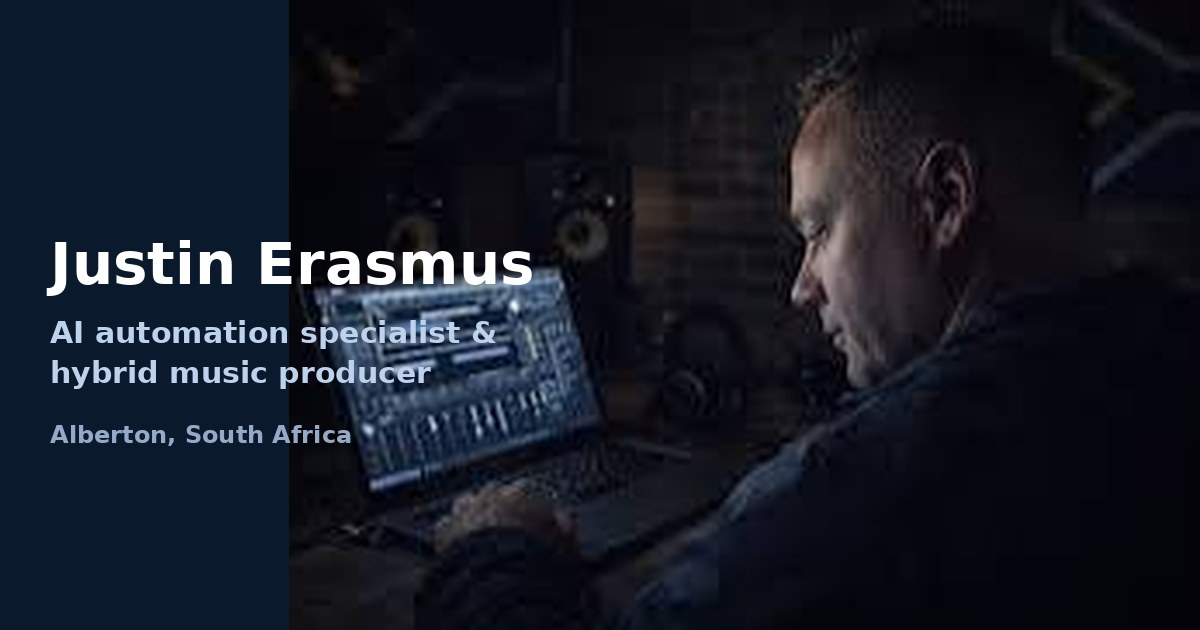
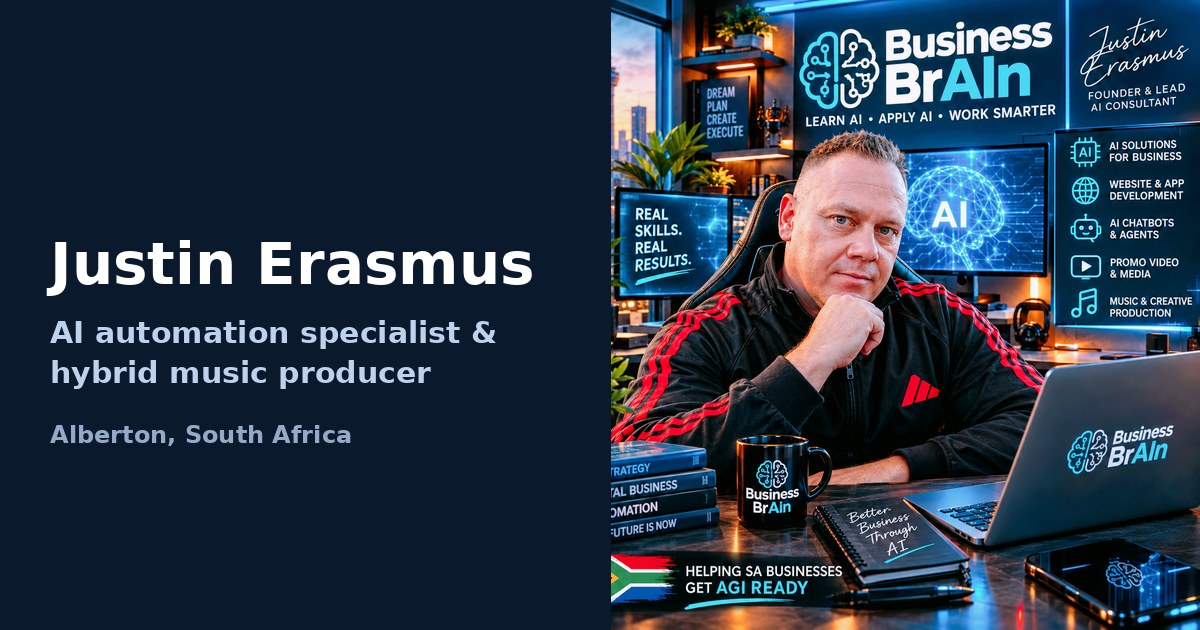
Add Business BrAIn photo: home hero, AI page, media kit; new OG image

diff --git a/media-kit/index.html b/media-kit/index.html
@@ -10,7 +10,7 @@
 <main id="main" class="wrap"><h1>Media Kit</h1><p class="meta">Biographies approved by Justin Erasmus, 14 October 2026. Please use them as written.</p>
 <h2>Short bio (50 words)</h2><p>Justin Erasmus is an Alberton-based AI automation specialist and hybrid music producer. Through Business BrAIn he helps South African businesses adopt practical AI and automation; through AlgoRythm Hybrid Music Production he makes human + AI music as Prismatic Wave, with 37 releases on Apple Music since 2025.</p>
 <h2>Long bio (150 words)</h2><p>Justin Erasmus is an AI automation specialist and hybrid music producer based in Alberton, Gauteng, south of Johannesburg. Under the Business BrAIn name he offers practical AI and automation to South African businesses: AI readiness audits, AI agents, workflow automation, WhatsApp AI customer service and AI Fundamentals for Business &amp; Work, a plain-language training offer for teams. His approach puts people in charge of decisions, with AI handling defined tasks and humans reviewing consequential output. In music, he developed AlgoRythm Hybrid Music Production (AHMP), a method in which he sets the creative direction, writes and selects, while AI tools such as Suno help generate and iterate. His main project, Prismatic Wave, released its first album, <em>Echo Of The Streets</em>, on 11 February 2025. By March 2026 the catalogue had grown to 37 releases and 152 tracks, available on Spotify, Apple Music, Deezer and Amazon Music.</p>
-<h2>Photographs</h2><figure class="photo" style="max-width:520px"><img src="/justin-erasmus-site/assets/justin-erasmus-studio.jpg" width="800" height="529" alt="Justin Erasmus working at a laptop running music production software in his studio"><figcaption>Justin Erasmus in the studio. <a href="/justin-erasmus-site/assets/justin-erasmus-studio.jpg" download>Download photo</a>. Higher-resolution images available on request.</figcaption></figure>
+<h2>Photographs</h2><figure class="photo" style="max-width:520px"><picture><source srcset="/assets/justin-erasmus-business-brain.webp" type="image/webp"><img src="/justin-erasmus-site/assets/justin-erasmus-business-brain.jpg" width="1254" height="1254" alt="Justin Erasmus at his desk with Business BrAIn branding"></picture><figcaption>Justin Erasmus with Business BrAIn branding (1254&times;1254). <a href="/justin-erasmus-site/assets/justin-erasmus-business-brain.jpg" download>Download JPG</a> · <a href="/justin-erasmus-site/assets/justin-erasmus-business-brain.webp" download>Download WebP</a>.</figcaption></figure><figure class="photo" style="max-width:520px"><img src="/justin-erasmus-site/assets/justin-erasmus-studio.jpg" width="800" height="529" alt="Justin Erasmus working at a laptop running music production software in his studio"><figcaption>Justin Erasmus in the studio. <a href="/justin-erasmus-site/assets/justin-erasmus-studio.jpg" download>Download photo</a>. Higher-resolution images available on request.</figcaption></figure>
 <h2>Talking points</h2><ul><li>Practical AI and automation for South African SMEs</li><li>Responsible AI and POPIA for small businesses</li><li>Human + AI music production: workflow, authorship and rights</li><li>Lessons from releasing 37 records in 13 months</li></ul>
 <h2>Press contact</h2><p><a href="mailto:business.brain.sa@gmail.com">business.brain.sa@gmail.com</a> · 081 379 4414</p></main>
 <footer class="site"><div class="wrap"><p>&copy; 2026 Justin Erasmus · Alberton, Gauteng, South Africa · <a href="/justin-erasmus-site/contact/">Contact</a> · <a href="/justin-erasmus-site/blog/feed.xml">RSS</a></p></div></footer></body></html>

diff --git a/index.html b/index.html
@@ -8,7 +8,7 @@
 <header class="site"><div class="wrap"><a class="brand" href="/justin-erasmus-site/">Justin Erasmus</a>
 <nav aria-label="Main"><input type="checkbox" id="nt" class="nt"><label for="nt" class="ntl">Menu</label><ul><li><a href="/justin-erasmus-site/" aria-current="page">Home</a></li><li><a href="/justin-erasmus-site/about/">About</a></li><li><a href="/justin-erasmus-site/ai-business-automation/">AI &amp; Automation</a></li><li><a href="/justin-erasmus-site/ai-music/">AI in Music</a></li><li><a href="/justin-erasmus-site/projects/">Projects</a></li><li><a href="/justin-erasmus-site/media/">Articles &amp; Media</a></li><li><a href="/justin-erasmus-site/blog/">Blog</a></li><li><a href="/justin-erasmus-site/media-kit/">Media Kit</a></li><li><a href="/justin-erasmus-site/contact/">Contact</a></li></ul></nav></div></header>
 <main id="main" class="wrap"><div class="hero"><div><h1>Justin Erasmus</h1><p class="lede">AI automation specialist and hybrid music producer based in Alberton, Gauteng. I help South African businesses put practical AI and automation to work, and I make music that combines human songwriting with AI tools.</p>
-<p><a class="btn" href="/justin-erasmus-site/ai-business-automation/">AI &amp; automation services</a><a class="btn" href="/justin-erasmus-site/ai-music/">Hear the music</a></p></div><div class="photo"><img src="/justin-erasmus-site/assets/justin-erasmus-studio.jpg" width="800" height="529" alt="Justin Erasmus working at a laptop running music production software in his studio"></div></div>
+<p><a class="btn" href="/justin-erasmus-site/ai-business-automation/">AI &amp; automation services</a><a class="btn" href="/justin-erasmus-site/ai-music/">Hear the music</a></p></div><div class="photo"><picture><source srcset="/assets/justin-erasmus-business-brain.webp" type="image/webp"><img src="/justin-erasmus-site/assets/justin-erasmus-business-brain.jpg" width="1254" height="1254" alt="Justin Erasmus at his desk with Business BrAIn branding"></picture></div></div>
 <div class="cards">
 <div class="card"><h3>Business BrAIn</h3><p>Practical AI and automation for small and growing businesses: readiness audits, AI agents, workflow automation and WhatsApp customer service.</p><a href="/justin-erasmus-site/ai-business-automation/">See the offerings</a></div>
 <div class="card"><h3>AlgoRythm Hybrid Music Production</h3><p>My human + AI production approach (AHMP), used across the Prismatic Wave catalogue.</p><a href="/justin-erasmus-site/ai-music/">How it works</a></div>

diff --git a/ai-music/index.html b/ai-music/index.html
@@ -9,6 +9,7 @@
 <nav aria-label="Main"><input type="checkbox" id="nt" class="nt"><label for="nt" class="ntl">Menu</label><ul><li><a href="/justin-erasmus-site/">Home</a></li><li><a href="/justin-erasmus-site/about/">About</a></li><li><a href="/justin-erasmus-site/ai-business-automation/">AI &amp; Automation</a></li><li><a href="/justin-erasmus-site/ai-music/" aria-current="page">AI in Music</a></li><li><a href="/justin-erasmus-site/projects/">Projects</a></li><li><a href="/justin-erasmus-site/media/">Articles &amp; Media</a></li><li><a href="/justin-erasmus-site/blog/">Blog</a></li><li><a href="/justin-erasmus-site/media-kit/">Media Kit</a></li><li><a href="/justin-erasmus-site/contact/">Contact</a></li></ul></nav></div></header>
 <main id="main" class="wrap"><h1>AI in Music &amp; Hybrid Production</h1>
 <p class="lede">AlgoRythm Hybrid Music Production (AHMP) is my approach to making music with AI: people set the direction, write and choose; AI tools generate and help iterate; the final selection, sequencing and release decisions stay human.</p>
+<figure class="photo" style="max-width:520px"><img src="/justin-erasmus-site/assets/justin-erasmus-studio.jpg" width="800" height="529" alt="Justin Erasmus working at a laptop running music production software in his studio"><figcaption>Justin Erasmus in the studio.</figcaption></figure>
 <h2>Prismatic Wave</h2><p>Prismatic Wave is the main AHMP project: 37 releases (152 tracks) on Apple Music from 11 February 2025 to 14 March 2026, spanning albums, EPs and singles.</p>
 <p><a class="btn" href="https://music.apple.com/za/artist/prismatic-wave/1795750961">Apple Music</a><a class="btn" href="https://open.spotify.com/artist/4q1wMDlETpNlIob1xnVQNA">Spotify</a><a class="btn" href="https://www.deezer.com/artist/302468021">Deezer</a><a class="btn" href="https://xkwizitai33.github.io/prismatic-wave/">Prismatic Wave site</a></p>
 <h2>Tools in the workflow</h2><p>Suno is one of the AI tools used; an example is <a href="https://suno.com/song/21c2fc51-344d-44c0-9b14-0953da531515">“Untouchable Outcome – Prismatic Wave v2”</a>.</p>

diff --git a/ai-business-automation/index.html b/ai-business-automation/index.html
@@ -8,6 +8,7 @@
 <header class="site"><div class="wrap"><a class="brand" href="/justin-erasmus-site/">Justin Erasmus</a>
 <nav aria-label="Main"><input type="checkbox" id="nt" class="nt"><label for="nt" class="ntl">Menu</label><ul><li><a href="/justin-erasmus-site/">Home</a></li><li><a href="/justin-erasmus-site/about/">About</a></li><li><a href="/justin-erasmus-site/ai-business-automation/" aria-current="page">AI &amp; Automation</a></li><li><a href="/justin-erasmus-site/ai-music/">AI in Music</a></li><li><a href="/justin-erasmus-site/projects/">Projects</a></li><li><a href="/justin-erasmus-site/media/">Articles &amp; Media</a></li><li><a href="/justin-erasmus-site/blog/">Blog</a></li><li><a href="/justin-erasmus-site/media-kit/">Media Kit</a></li><li><a href="/justin-erasmus-site/contact/">Contact</a></li></ul></nav></div></header>
 <main id="main" class="wrap"><h1>AI &amp; Business Automation</h1><p class="lede">Through Business BrAIn I offer practical AI and automation for small and growing South African businesses: systems that do real work, with human oversight where it matters.</p>
+<figure class="photo" style="max-width:420px"><picture><source srcset="/assets/justin-erasmus-business-brain.webp" type="image/webp"><img src="/justin-erasmus-site/assets/justin-erasmus-business-brain.jpg" width="1254" height="1254" alt="Justin Erasmus at his desk with Business BrAIn branding"></picture><figcaption>Justin Erasmus, founder of Business BrAIn.</figcaption></figure>
 <h2>Offerings</h2><div class="cards">
 <div class="card"><h3>AI Readiness Audit</h3><p>A review of your processes, data and tools to find where AI and automation can realistically save time.</p></div>
 <div class="card"><h3>AI implementation &amp; AI agents</h3><p>Designing and setting up assistants and agents that handle defined tasks inside your existing tools.</p></div>
